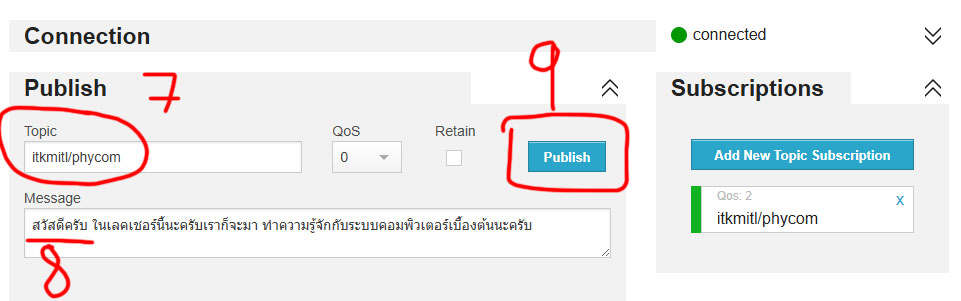
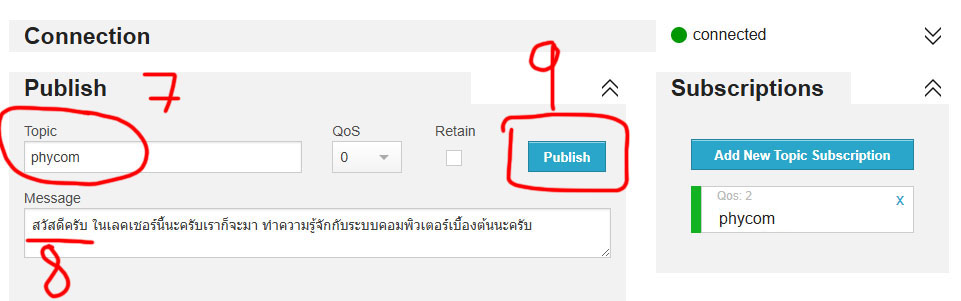
Added mqtt lab

Changed region(s): [[0.7492, 0.6877, 0.8741, 0.7475], [0.0312, 0.5083, 0.1249, 0.5382]]

diff --git a/labs/labs13-InternetOfThing/readme.md b/labs/labs13-InternetOfThing/readme.md
@@ -5,15 +5,17 @@
 1. [MQTT Broker](01.MQTT%20Broker.md)
 2. [Connect to ITKMITL WiFi](02.Connect%20To%20ITKMITL%20WiFi.md)
 3. [Connect to Personal WiFi](03.Connect%20to%20Personal%20WiFi.md)
-4.
+4. [Arduino With MQTT.md](04.Arduino%20With%20MQTT.md)
 
 ## Today Exercises
 
 **เข็คส่งงาน:** https://bit.ly/PhyCom2024Score
 
-| ข้อ                | รายละเอียด                                                 | ตัวอย่าง                                                            |
-|--------------------|------------------------------------------------------------|---------------------------------------------------------------------|
-| **1. Web Server:** | ให้นำโค้ดนี้ไปรันและเปิด Web Server ผ่านตัว Arduino ให้ได้ | ![](https://www.it.kmitl.ac.th/~pattarachai/PIC/ICON/emailspin.gif) |
+| ข้อ                        | รายละเอียด                                                                                                                                                                                                                                                                                                                                 | ตัวอย่าง                                                            |
+|----------------------------|--------------------------------------------------------------------------------------------------------------------------------------------------------------------------------------------------------------------------------------------------------------------------------------------------------------------------------------------|---------------------------------------------------------------------|
+| **1. Web Server:**         | ให้นำโค้ดนี้ไปรันและเปิด Web Server ผ่านตัว Arduino ให้ได้                                                                                                                                                                                                                                                                                 | ![](https://www.it.kmitl.ac.th/~pattarachai/PIC/ICON/emailspin.gif) |
+| **2. MQTT Potentiometer:** | ต่อตัวต้านทานปรับค่าได้และส่งค่าของตัวต้านทานไปที่ HiveMQ                                                                                                                                                                                                                                                                                  | ![img.png](files/img/ex2.png)                                       |
+| **3. MQTT LED:**           | ให้ publish ค่า 0-255 แล้วไปสั่งให้ หลอด LED หรี่, สว่างค่าที่ส่งมา <br/> <br/> - 0 คือดับ <br/> - 255 คือสว่างสุด <br/> <br/> ในฟังก์ชั่น messageHandler เพิ่มโปรแกรม `void messageHandler(String &topic, String &payload)` จะต้องเปลี่ยน payload จาก String ให้เป็น Interger ก่อน <br/> <br/> `val = XXX.toInt();` `analogWrite(9,val);` | ![img.png](files/img/ex3.png)                                       |
 
 สไลด์ Lecture: [PC67-15_Micro03.pdf](files%2FPC67-15_Micro03.pdf)
 

diff --git a/labs/labs13-InternetOfThing/02.Connect To ITKMITL WiFi.md b/labs/labs13-InternetOfThing/02.Connect To ITKMITL WiFi.md
@@ -69,13 +69,13 @@ ping 10.0.15.29
 
 # Login to Kerio
 
-**Full Code Here:** [Login to Kerio.ino](files/LogintoKerio.ino)
+**Full Code Here:** [Login to Kerio.ino](files/wifi/LogintoKerio.ino)
 
 โค้ดนี้ใช้สำหรับเชื่อมต่อไมโครคอนโทรลเลอร์ (เช่น ESP32) กับเครือข่าย Wi-Fi และส่งคำขอ HTTP POST
 ไปยังเซิร์ฟเวอร์ผ่านการเชื่อมต่อ HTTPS เพื่อที่จะใช้ Login Network ของคณะ
 
-- Shell Script เอาไว้ Login Network คณะ: [login.sh](files/login.sh)
-- Batch Script เอาไว้ Login Network คณะ: [login.bat](files/login.bat)
+- Shell Script เอาไว้ Login Network คณะ: [login.sh](files/wifi/login.sh)
+- Batch Script เอาไว้ Login Network คณะ: [login.bat](files/wifi/login.bat)
 - https://portal.it.kmitl.ac.th:4081/login/
 
 ให้ไปโหลด Library ชื่อ `R4HttpClient` ก่อน

diff --git a/labs/labs13-InternetOfThing/04.Arduino With MQTT.md b/labs/labs13-InternetOfThing/04.Arduino With MQTT.md
@@ -1,0 +1,28 @@
+# Arduino with MQTT
+
+การทดลองต่อ Arduino R4 WiFi กับ Public MQTT Broker
+
+## 1. ติดตั้ง Library
+
+ค้นหา `MQTT` จากนั้นกด Install
+
+![amqtt1.jpg](files/img/amqtt1.jpg)
+
+## 2. Code Section
+
+- **ITFORGE_UFO**: [mqtt.ino](files/mqtt/mqtt.ino)
+- **เน็ตตัวเอง/เน็ตบ้านปกติ**: [mqtt_original.ino](files/mqtt/mqtt_original.ino)
+
+### เน็ตตัวเอง/เน็ตบ้านปกติ
+
+ให้ไปแก้ Credentials ด้วย
+
+![amqtt2.jpg](files/img/amqtt2.jpg)
+
+## 3. Enter the topic you want to publish or subscribe to
+
+ให้มาแก้ไขหัวข้อหรือ Topic ที่ต้องการจะ Publish กับ Subscribe ในโค้ดด้วย
+
+![amqtt3.jpg](files/img/amqtt3.jpg)
+
+ถ้าในห้องแลปให้ใช้หัวข้อว่า `phycom`

diff --git a/labs/labs13-InternetOfThing/01.MQTT Broker.md b/labs/labs13-InternetOfThing/01.MQTT Broker.md
@@ -18,13 +18,13 @@ https://www.hivemq.com/demos/websocket-client/
 
 กรอกหัวข้อที่ต้องการติดตามแล้วกดปุ่ม Subscribe
 
-- **Topic**: `itkmitl/phycom`
+- **Topic**: `phycom`
 
 ![mqtt2.jpg](files/img/mqtt2.jpg)
 
 ## Step 3: Publish
 
-ในฟิลด์ "Publish" จะสามารถกรอกหัวข้อที่ต้องการส่งข้อความไป (เช่น `itkmitl/phycom`) และข้อความที่ต้องการส่ง
+ในฟิลด์ "Publish" จะสามารถกรอกหัวข้อที่ต้องการส่งข้อความไป (เช่น `phycom`) และข้อความที่ต้องการส่ง
 
 ![mqtt3.jpg](files%2Fimg%2Fmqtt3.jpg)
 

diff --git a/readme.md b/readme.md
@@ -13,6 +13,7 @@
 - [Lab10: Struct](labs/labs10-struct)
 - [Lab11: Arduino Intro](labs/labs11-IntroToMicrocontroller)
 - [Lab12: Digital To Analog](labs/labs12-DigitalToAnalog)
+- [Lab13: Internet Of Things](labs/labs13-InternetOfThing)
 
 ## Resources
 
